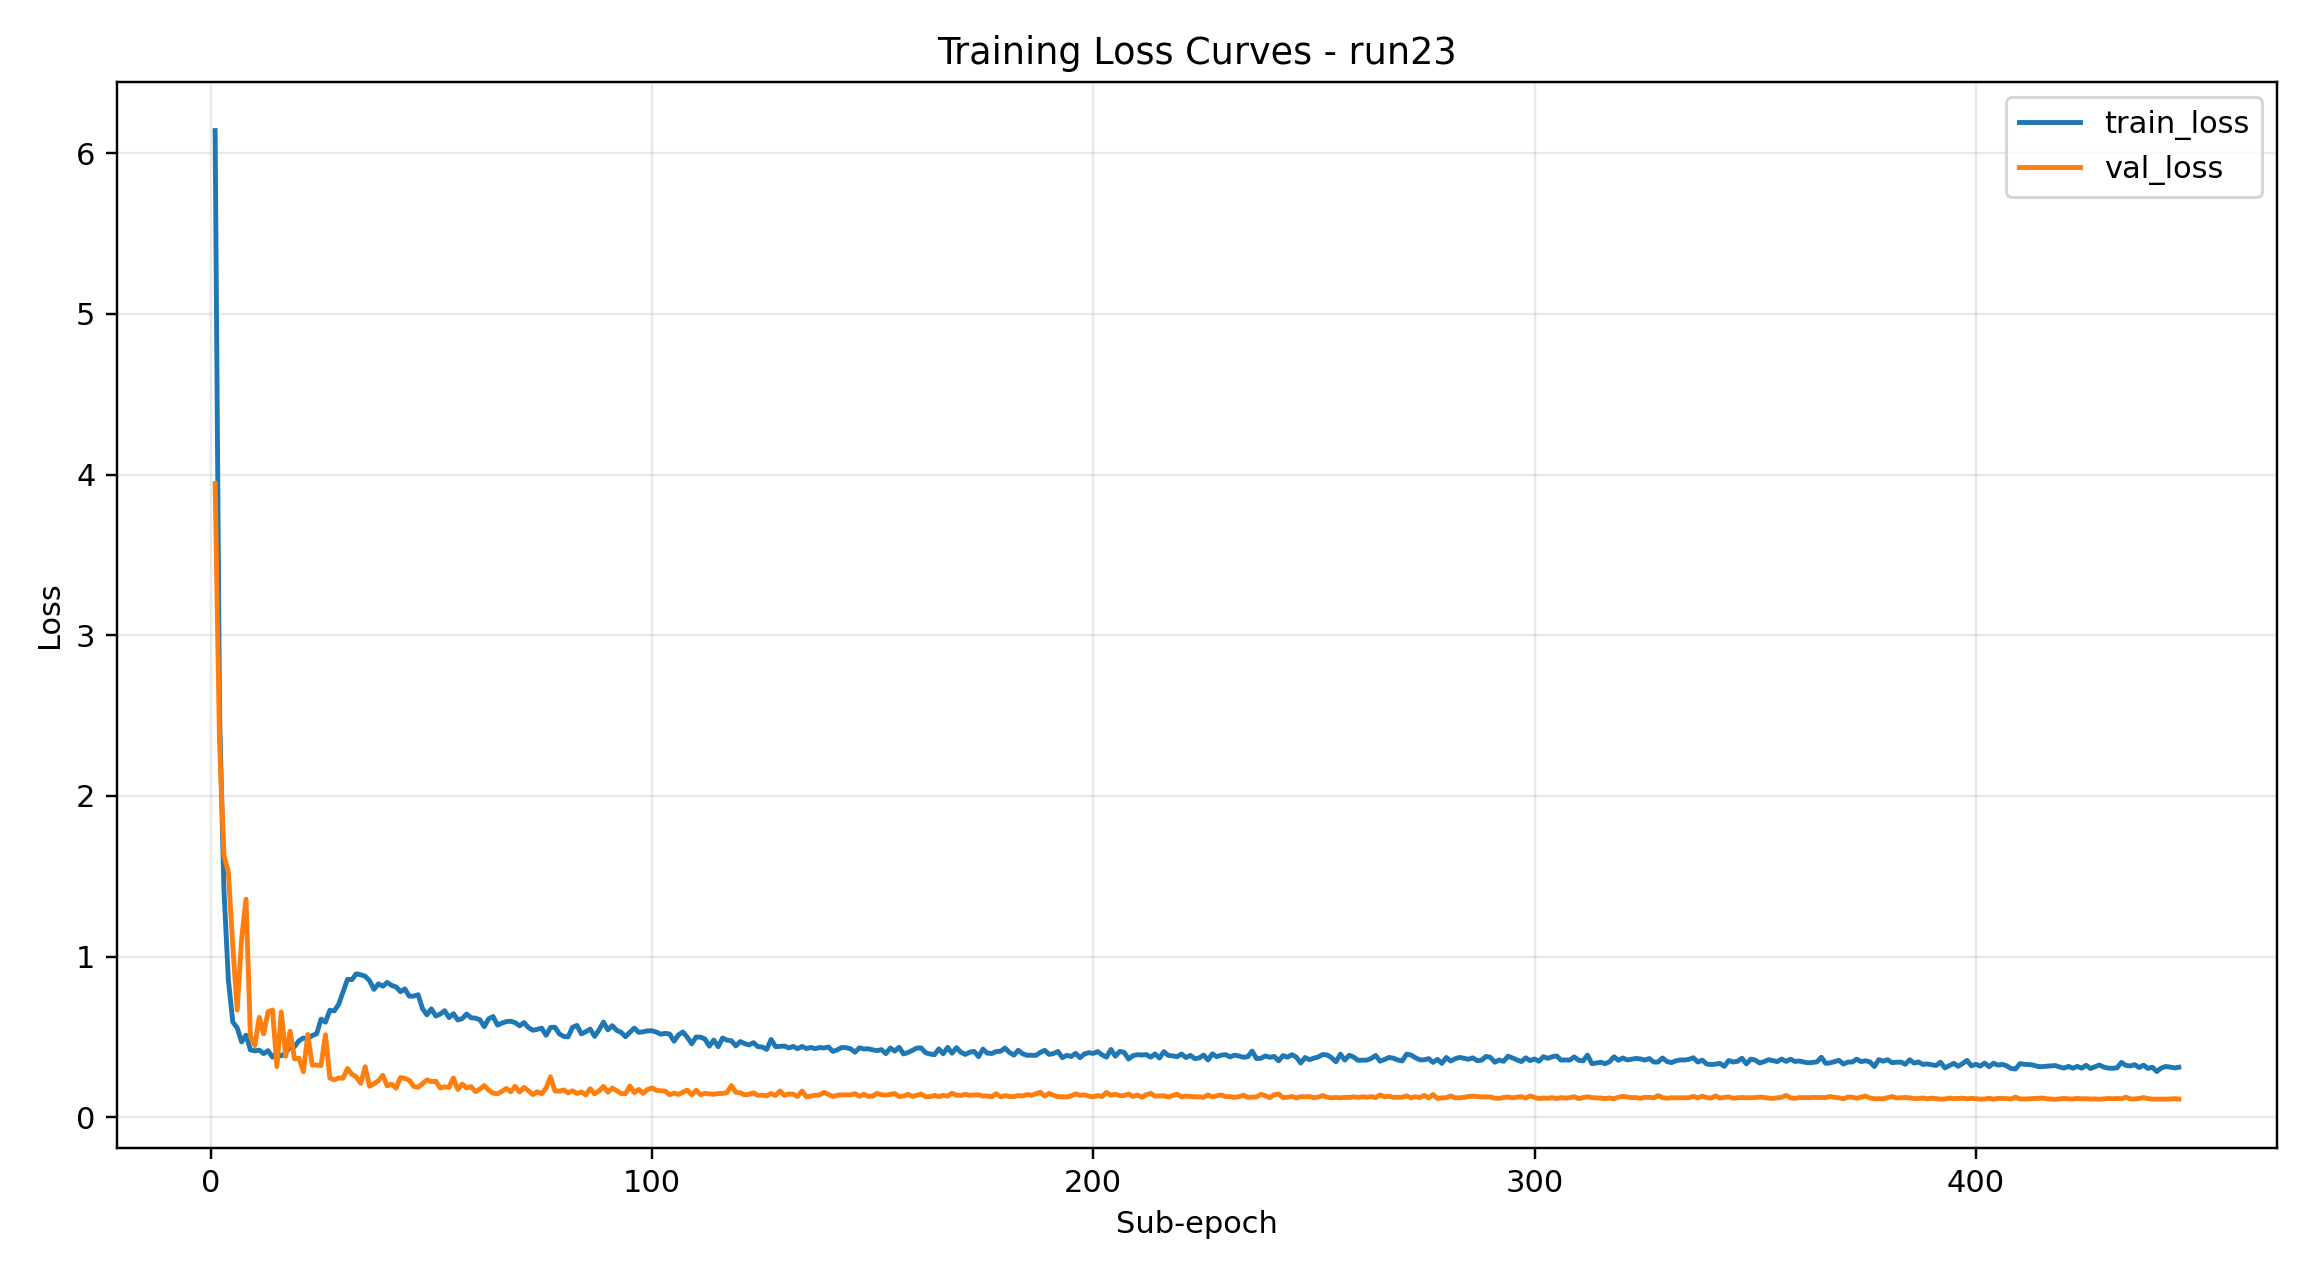
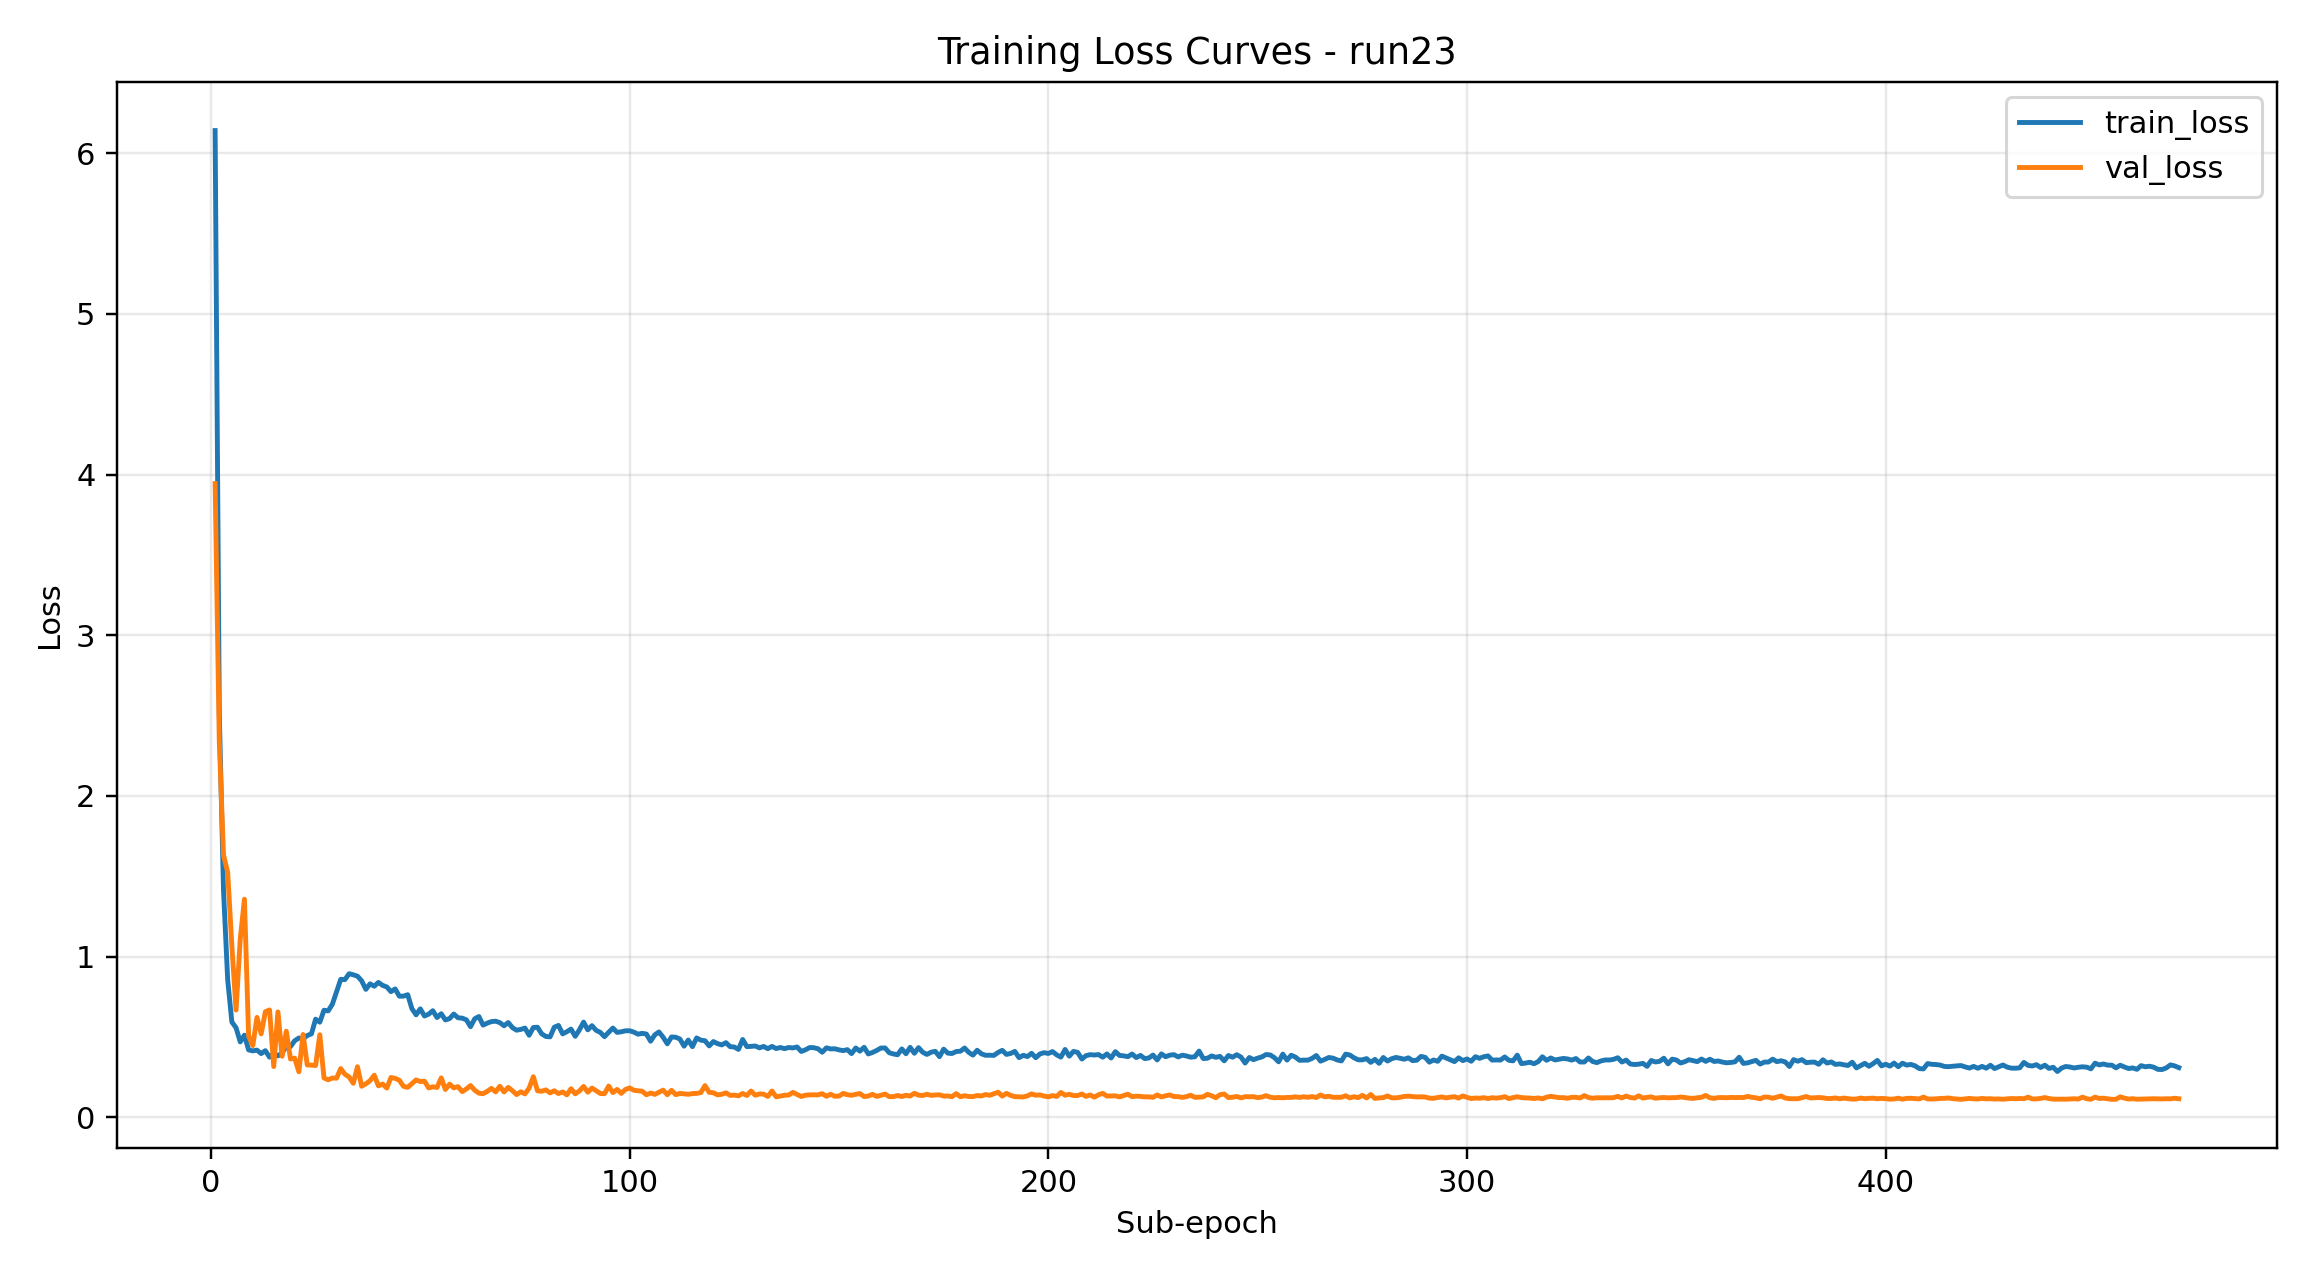
feat: update README with new model architecture and performance visualizations; add loss curves and prediction examples

diff --git a/runInvertedModel.py b/runInvertedModel.py
@@ -522,7 +522,7 @@ if __name__ == '__main__':
     runModelModule.DEBUG = DEBUG
     runModelModule.USEGROUNDTRUTH = USEGROUNDTRUTH
 
-    modelPath = r"C:\Users\Aypisam\Documents\VS_Python_Project\Autopilot\training\run21\best_model.pth"
+    modelPath = r"C:\Users\Aypisam\Documents\VS_Python_Project\Autopilot\training\run23\best_model.pth"
     videoPath = r"C:\Users\Aypisam\Videos\Autopilot_Videos\Camera\camera_front_wide_120fov"
     calibrationRoot = r"C:\Users\Aypisam\Videos\Autopilot_Videos\calibration"
 

diff --git a/README.md b/README.md
@@ -35,7 +35,7 @@ Examples of processed trajectory labels projected from the NVIDIA PhysicalAI-Aut
 
 ## Model Architecture
 
-![Model architecture diagram](ADS%20presentation/diagrams/03_modelArchitecture/diagram.png)
+![Model architecture diagram](model\architecture\ADS-TrajectoryModel_MotionFpn_CrossAttentionKinematic_V2-Architecture.svg)
 
 Core blocks:
 
@@ -134,9 +134,17 @@ From `training/run23/training_params.json`:
 - `vectorTimes=[0.1, ..., 3.0]`
 - `modelName=TrajectoryModel_MotionFpn_CrossAttentionKinematic_V2`
 
-### Loss Curves (run23)
+### Performances (run23)
 
-![run23 Training Loss Curves](training/run23/loss_plot.png)
+### Loss Curves
+![run23 Training Loss Curves with log10 y-axis](images\visualization\run23_lossLog10y.png)
+
+#### Prediction Visualization
+
+| Front Facing Camera | Top-Down |
+|:---:|:---:|
+| ![Daylight right turn view from front facing camera](images\visualization\NVIDIA_viz\Day-Right_Turn_Intersection_CamView.png) | ![Daylight right turn top-down visualization](images\visualization\NVIDIA_viz\Day-Right_Turn_Intersection_TopDownView.png) |
+| ![Nighttime left turn view from front facing camera](images\visualization\NVIDIA_viz\Night-Left_Turn_Intersection_CamView.png) | ![Nighttime left turn top-down visualization](images\visualization\NVIDIA_viz\Night-Left_Turn_Intersection_TopDownView.png) |
 
 ## Inference and Visualization
 
